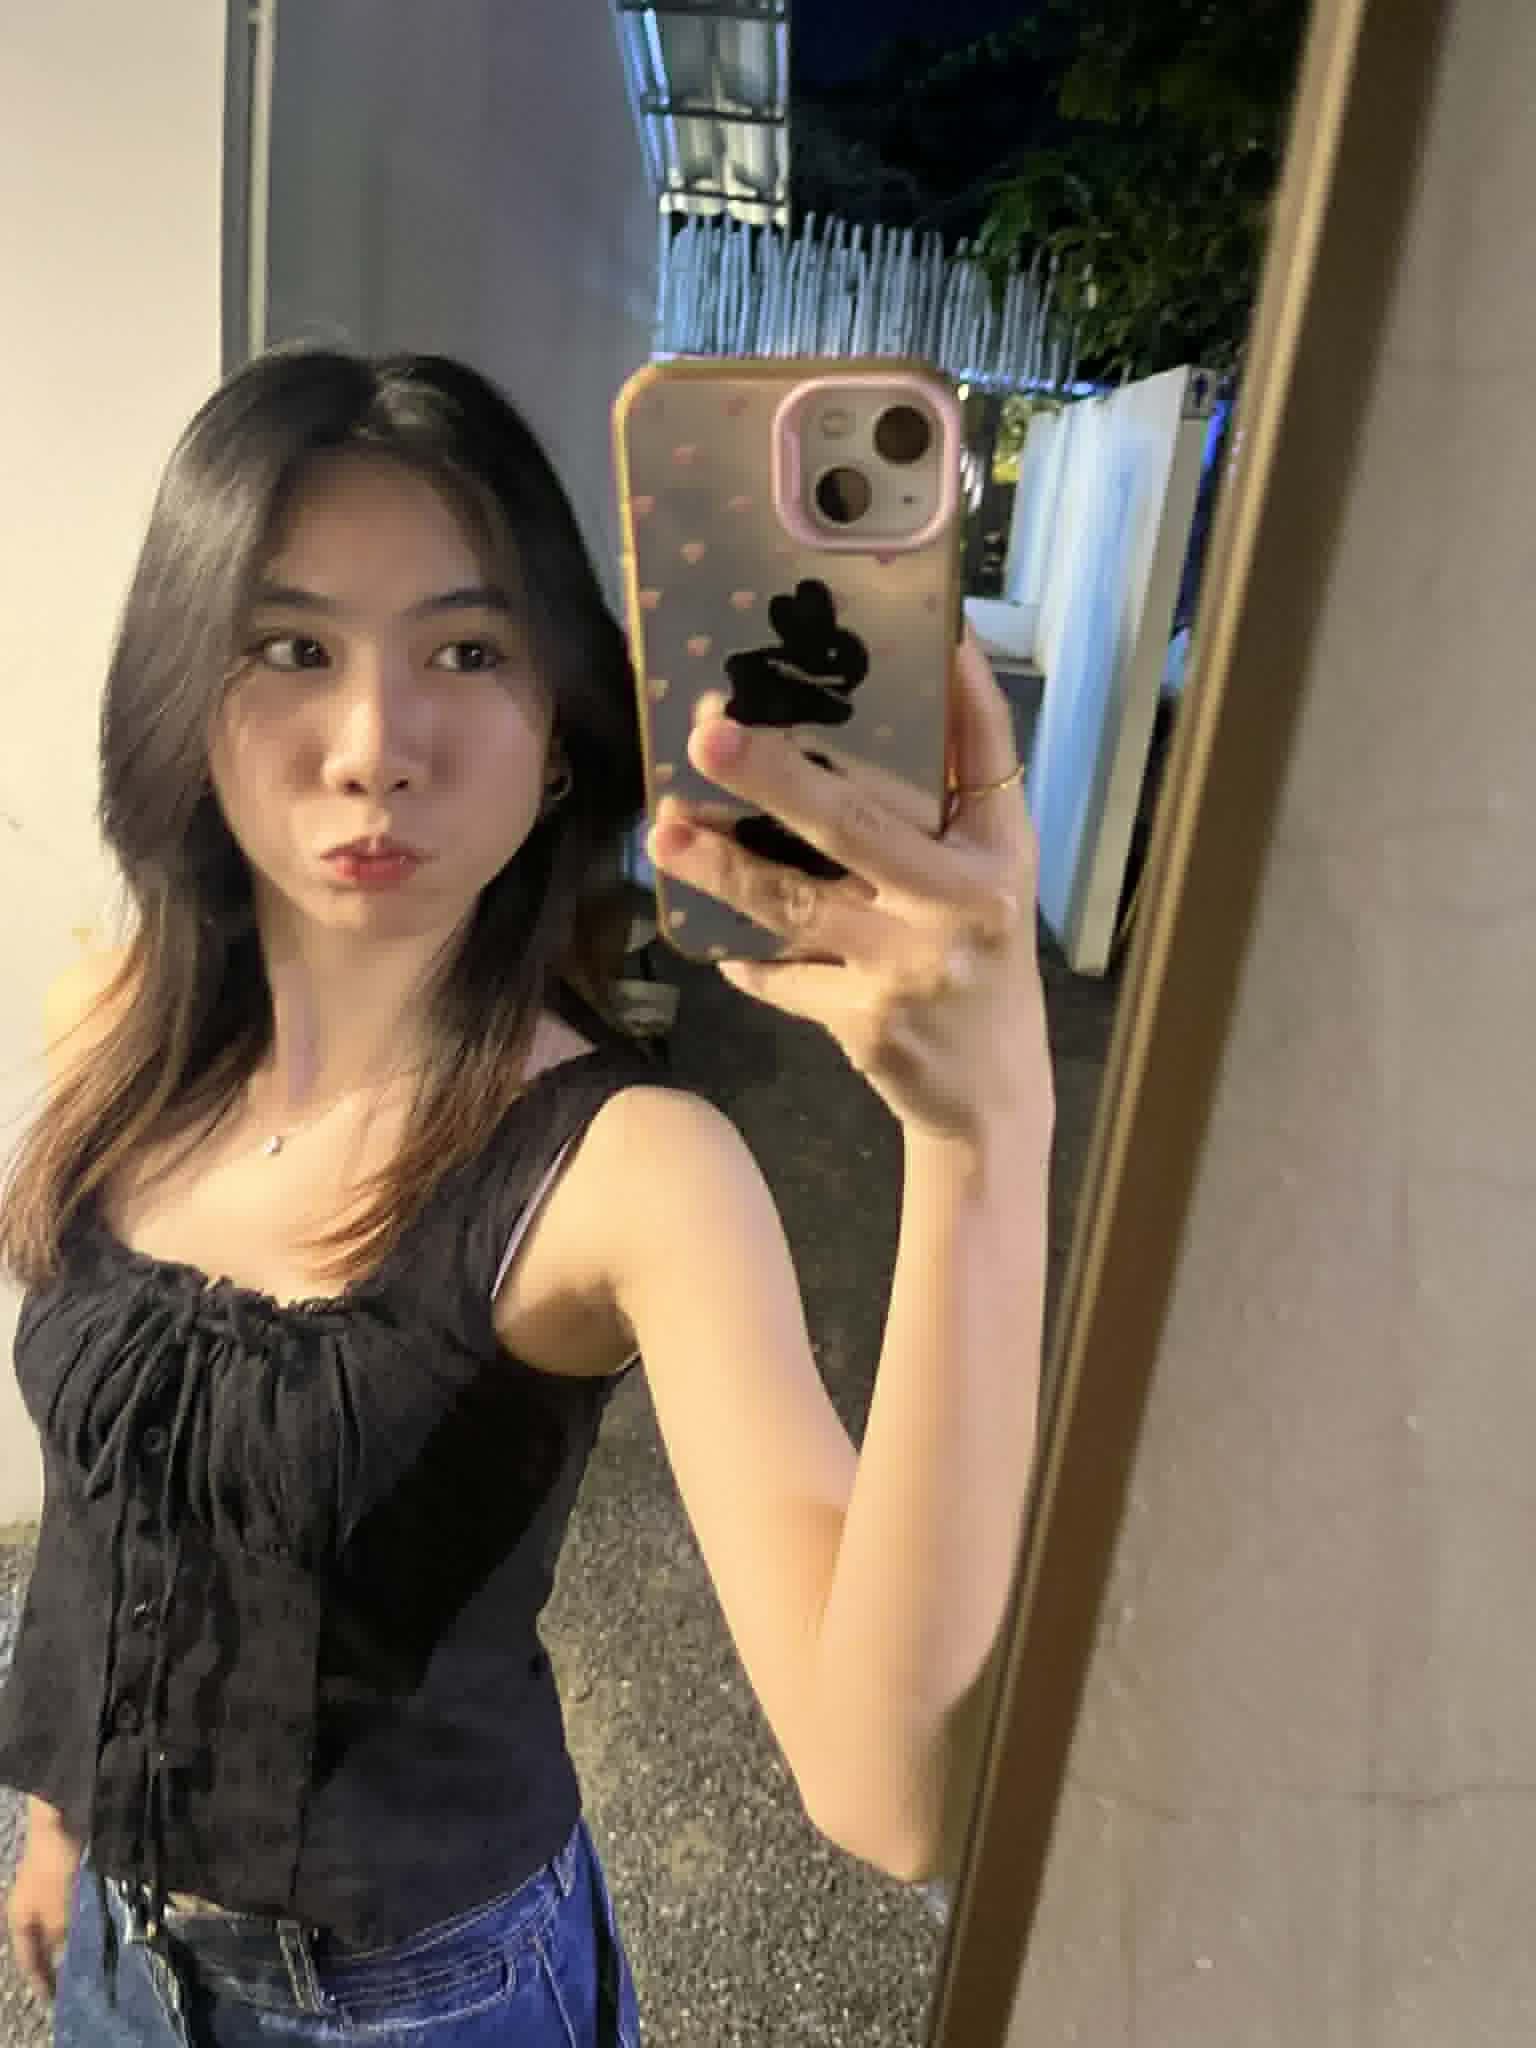
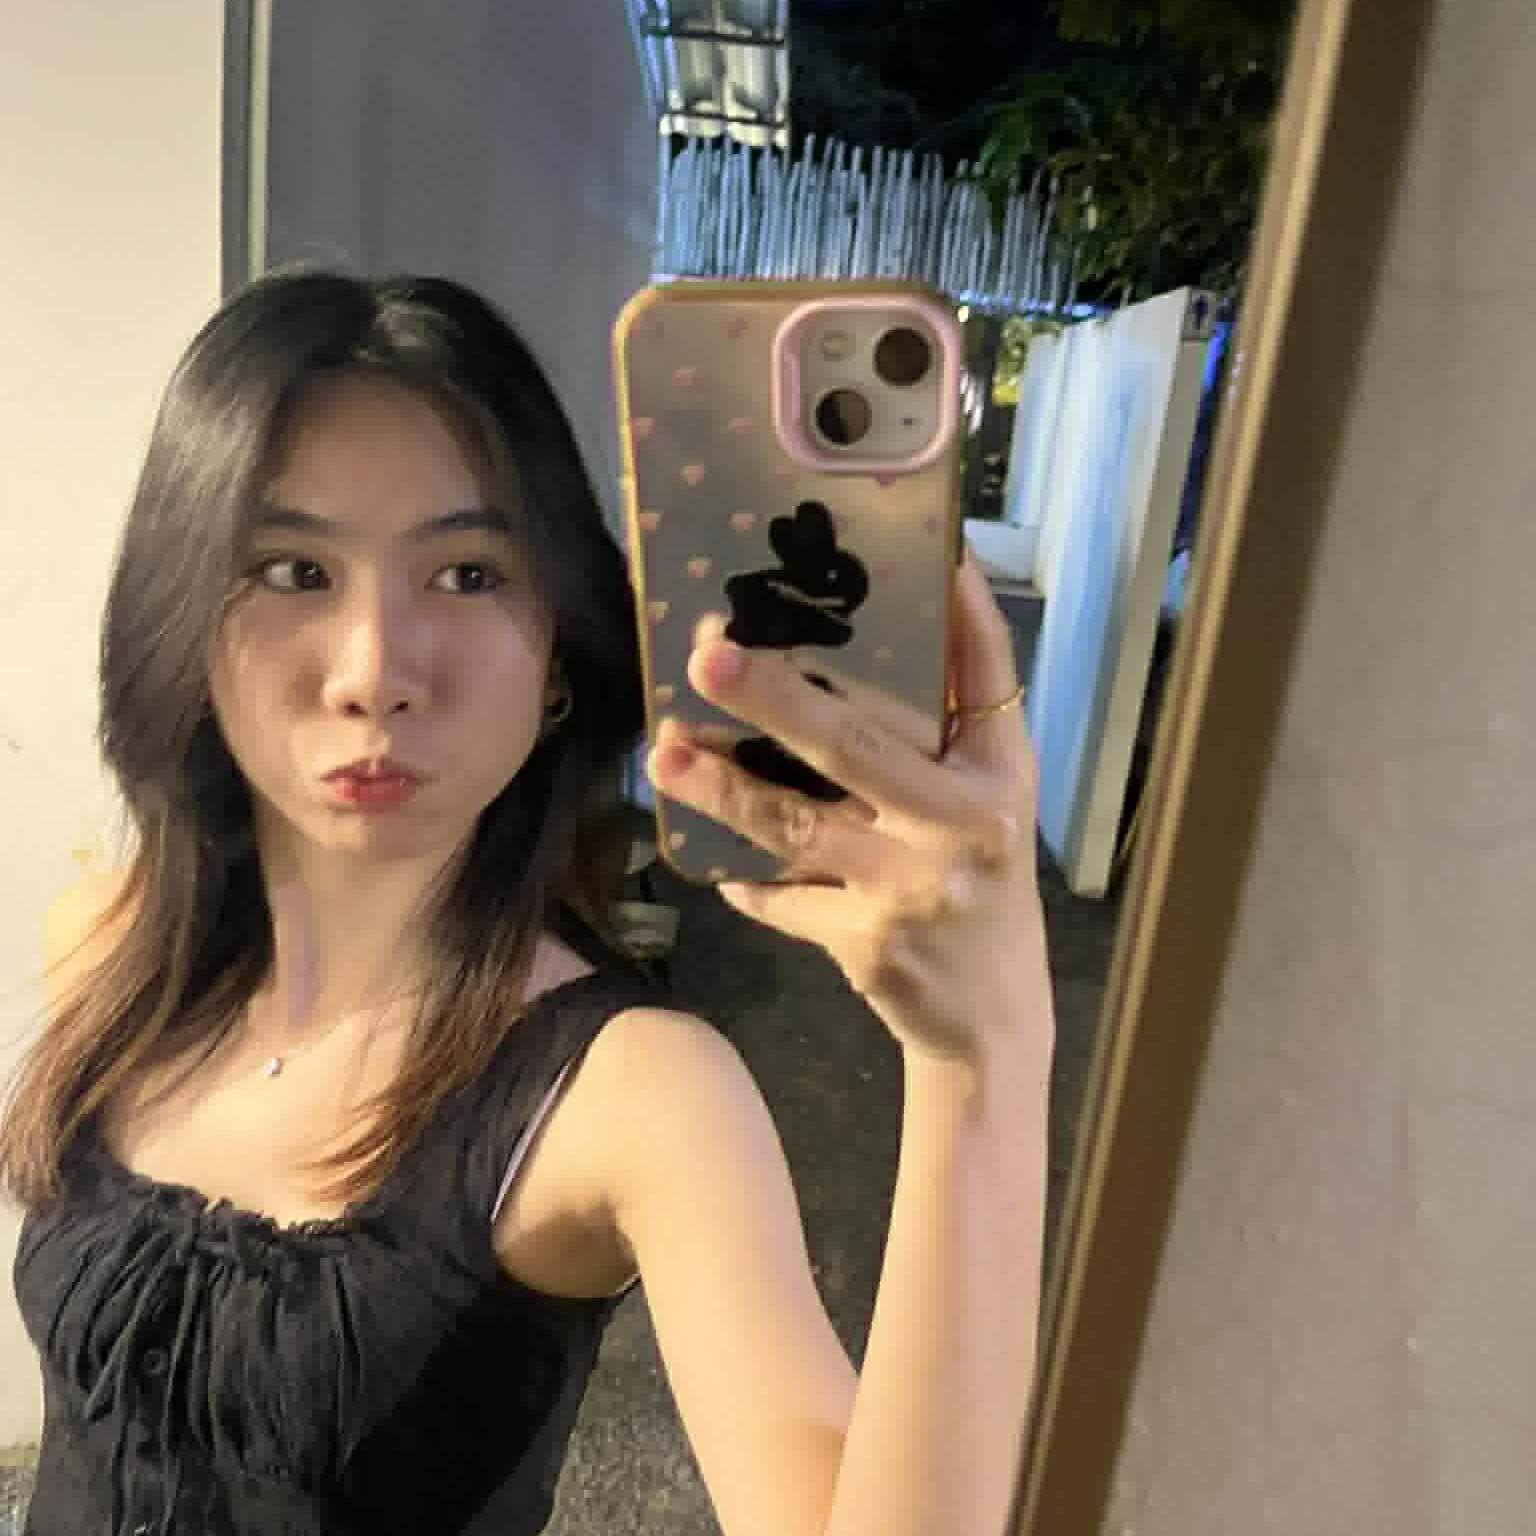
Update Valentine components and add images

diff --git a/app/layout.tsx b/app/layout.tsx
@@ -12,9 +12,9 @@ export const metadata: Metadata = {
   title: "Ask for Valentine Date!",
   description: "Will you be my Valentine, Vicha?",
   icons: {
-    icon: "/logo1.png",
-    shortcut: "/logo1.png",
-    apple: "/logo1.png",
+    icon: "/her1.png",
+    shortcut: "/her1.png",
+    apple: "/her1.png",
   },
 };
 

diff --git a/app/components/Valentine.tsx b/app/components/Valentine.tsx
@@ -342,7 +342,7 @@ export default function Valentine() {
             }}
           >
             <img
-              src="/logo.png"
+              src="/her1.png"
               alt="Profile"
               className="h-24 w-24 object-cover sm:h-32 sm:w-32"
               style={{
